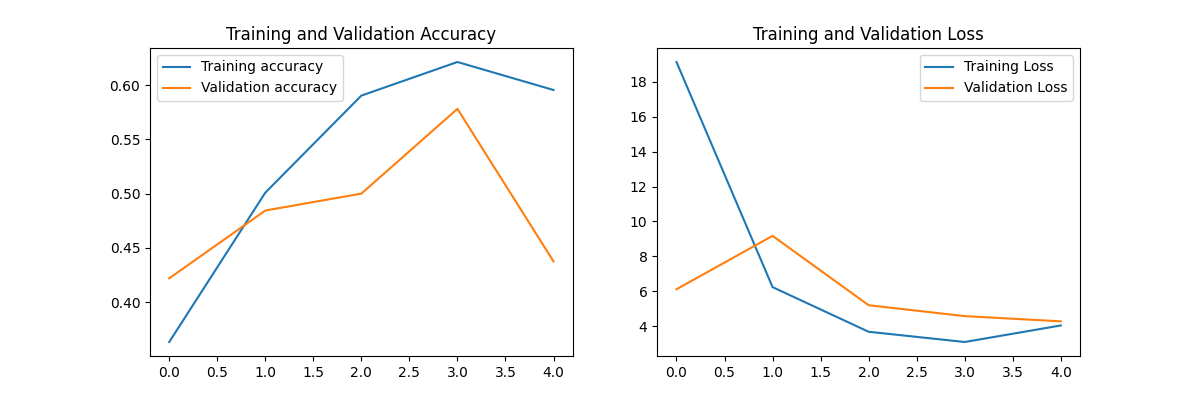
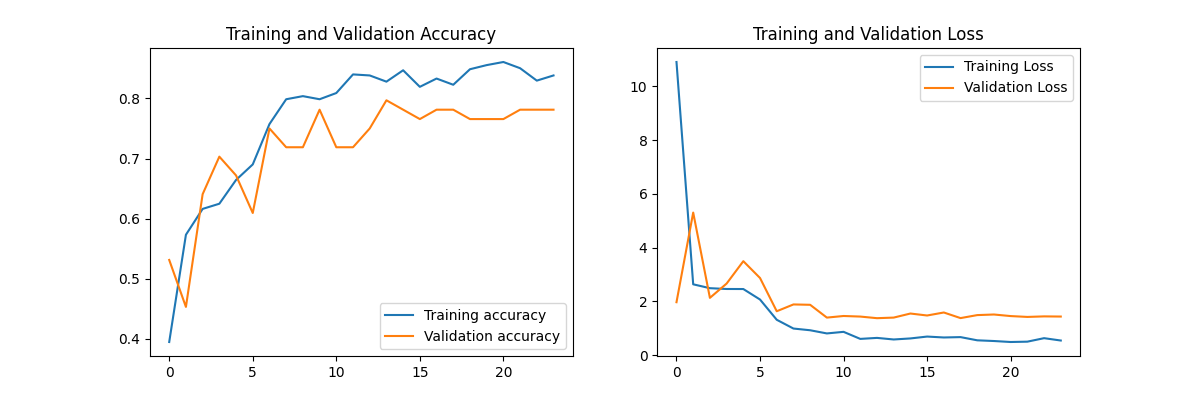
CNN hyperparameter tuning added

diff --git a/src/chestCancerClassification/components/model_training.py b/src/chestCancerClassification/components/model_training.py
@@ -18,6 +18,8 @@ from tensorflow.keras.callbacks import ReduceLROnPlateau, EarlyStopping
 import mlflow.keras
 from keras.layers import Conv2D, MaxPooling2D, Flatten, Dense, Dropout
 from keras.models import Sequential
+import kerastuner as kt
+from tensorflow.keras.optimizers import Adam
 
 class Training:
     def __init__(self, config: TrainingConfig, model_name: str):
@@ -203,6 +205,88 @@ class Training:
             self.plot_training_history(history)
 
             self.evaluate_and_report(history)
+    
+    def build_tunable_cnn_model(self, hp):
+        """
+        Build a CNN model with tunable hyperparameters, including the number of layers.
+        """
+        input_shape = self.config.params_image_size
+        num_classes = 4  
+
+        model = Sequential()
+
+        # Tuning the number of convolutional layers
+        for i in range(hp.Int('num_conv_layers', 1, 5)): 
+            model.add(Conv2D(hp.Int(f'conv_{i+1}_filter', min_value=32, max_value=256, step=32),
+                             (3, 3), activation='relu', input_shape=input_shape if i == 0 else None))
+            model.add(MaxPooling2D((2, 2)))
+        
+        model.add(Flatten())
+
+        # Dense layer
+        model.add(Dense(hp.Int('dense_units', min_value=64, max_value=256, step=64), activation='relu'))
+        model.add(Dropout(hp.Float('dropout', min_value=0.0, max_value=0.5, step=0.1)))
+        model.add(Dense(num_classes, activation='softmax'))
+        
+        # Compile model
+        model.compile(optimizer=Adam(hp.Float('learning_rate', min_value=1e-4, max_value=1e-2, sampling='LOG')),
+                      loss='categorical_crossentropy', 
+                      metrics=['accuracy'])
+
+        self.model = model
+        
+        model.summary()
+        
+        return model
+
+    def hyperparameter_tuning(self):
+        tuner = kt.Hyperband(
+            self.build_tunable_cnn_model,
+            objective='val_accuracy',
+            max_epochs=10,
+            factor=3,
+            hyperband_iterations=2,
+            directory='hyperparam_tuning',
+            project_name='cnn_tuning'
+        )
+
+        self.setup_data_generators()
+
+        steps_per_epoch = self.train_generator.samples // self.train_generator.batch_size
+        validation_steps = self.valid_generator.samples // self.valid_generator.batch_size
+
+        tuner.search(self.train_generator,
+                     steps_per_epoch=steps_per_epoch,
+                     validation_data=self.valid_generator,
+                     validation_steps=validation_steps,
+                     epochs=10)
+
+        best_model = tuner.get_best_models(num_models=1)[0]
+        best_hyperparameters = tuner.get_best_hyperparameters(num_trials=1)[0]
+
+        return best_model, best_hyperparameters
+
+    def train_and_evaluate_best_model(self, best_model):
+        self.setup_data_generators()
+
+        steps_per_epoch = self.train_generator.samples // self.train_generator.batch_size
+        validation_steps = self.valid_generator.samples // self.valid_generator.batch_size
+
+        # Training the best model
+        history = best_model.fit(
+            self.train_generator,
+            epochs=self.config.params_epochs,
+            steps_per_epoch=steps_per_epoch,
+            validation_data=self.valid_generator,
+            validation_steps=validation_steps
+        )
+
+        # Save and plot training history
+        self.save_model(path="artifacts/training/cnn_ht.h5", model=best_model)
+        self.plot_training_history(history)
+
+        # Evaluate the model
+        self.evaluate_and_report(history)
 
     def train(self):
         # create_directories([self.config.results_folder])

diff --git a/src/chestCancerClassification/pipeline/stage_03_model_training.py b/src/chestCancerClassification/pipeline/stage_03_model_training.py
@@ -23,6 +23,18 @@ class TrainingPipeline:
 
         logger.info("Training ended successfully for CNN model")
         
+        logger.info("Training start for CNN Hyperparameter Tuning model")
+
+        training_config = config.get_training_config_cnn()
+
+        # print(training_config)
+        training = Training(config=training_config, model_name="CNN Hyperparameter Tuning")
+        # training.build_tunable_cnn_model()
+        best_model, best_hyperparameters = training.hyperparameter_tuning()
+        training.train_and_evaluate_best_model(best_model)
+
+        logger.info("Training ended successfully for CNN Hyperparameter Tuning model")
+        
 
         logger.info("Training start for VGG16 model")
 
